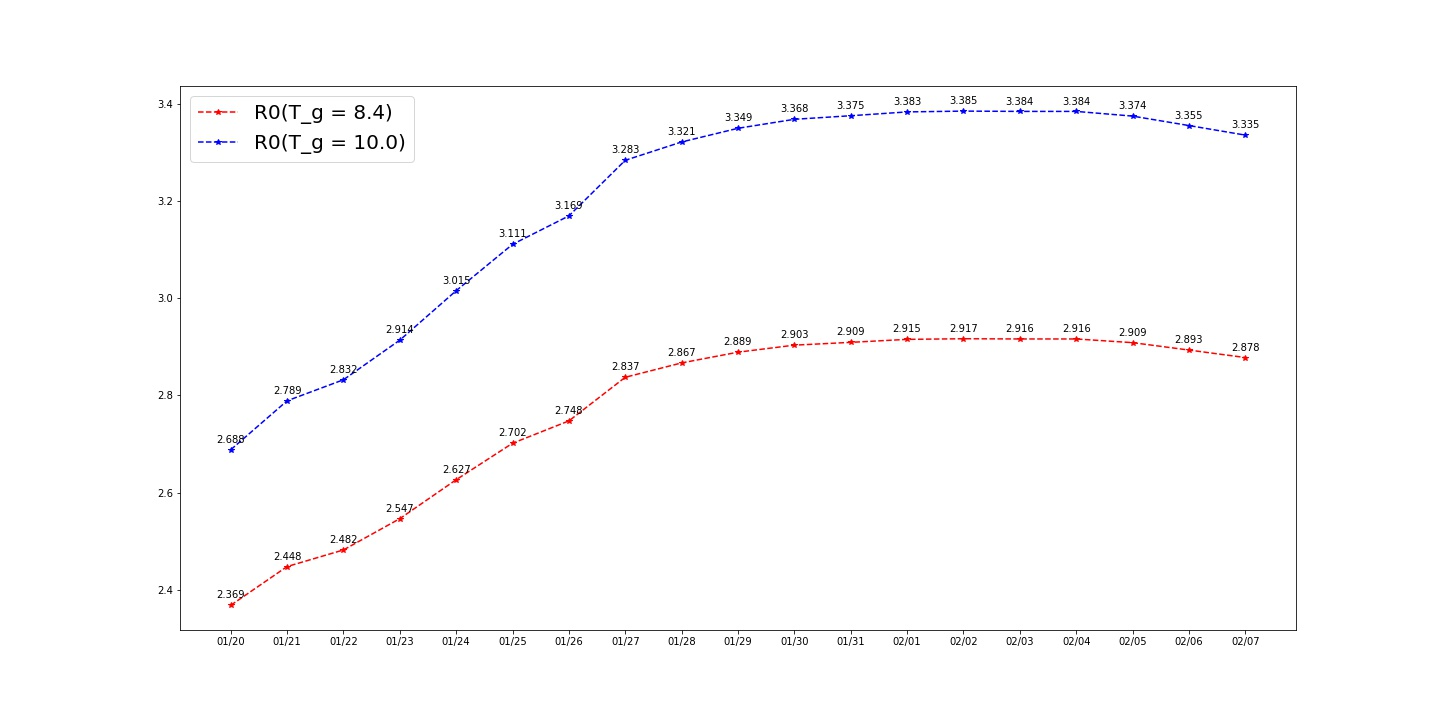
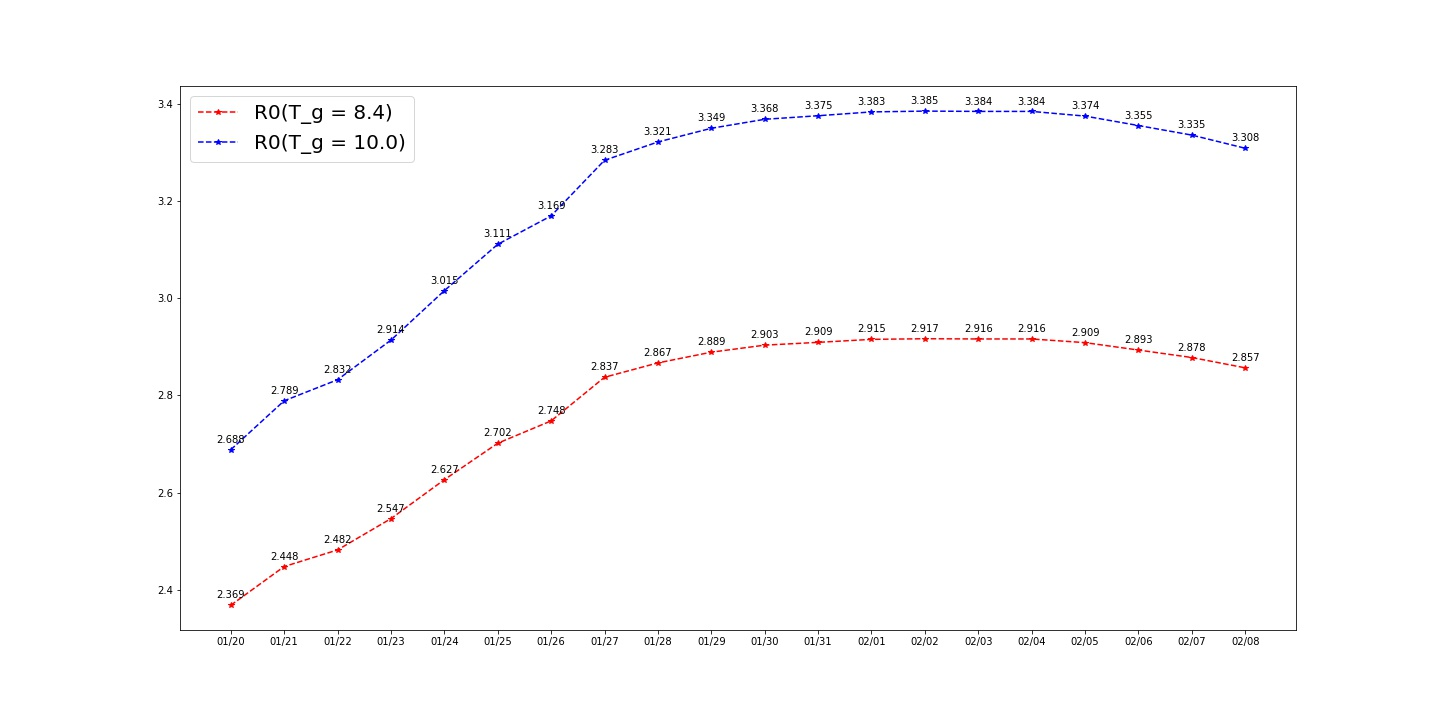
0209

diff --git a/README.md b/README.md
@@ -1,6 +1,6 @@
 ## Learning infectious disease model
 
-data from National/Hubei/Wuhan health commission(data updated up to  2020/02/07/23:59)
+data from National/Hubei/Wuhan health commission(data updated up to  2020/02/08/23:59)
 
 ### power function - y = a * (x**b) + c 
 #### Daily Number
@@ -19,7 +19,8 @@ Date(as of 23:59) | Forecast(F) | Reality(R) | Difference(F-R)
 :------------------: | :------------: | :----------: | :---------------: 
 2020/02/06 | 32384 |31161|1223
 2020/02/07 | 36213 |34546|1667
-2020/02/08 | 39952 ||
+2020/02/08 | 39952 |37198|2754
+2020/02/09 | 43202 ||
 
 
 
